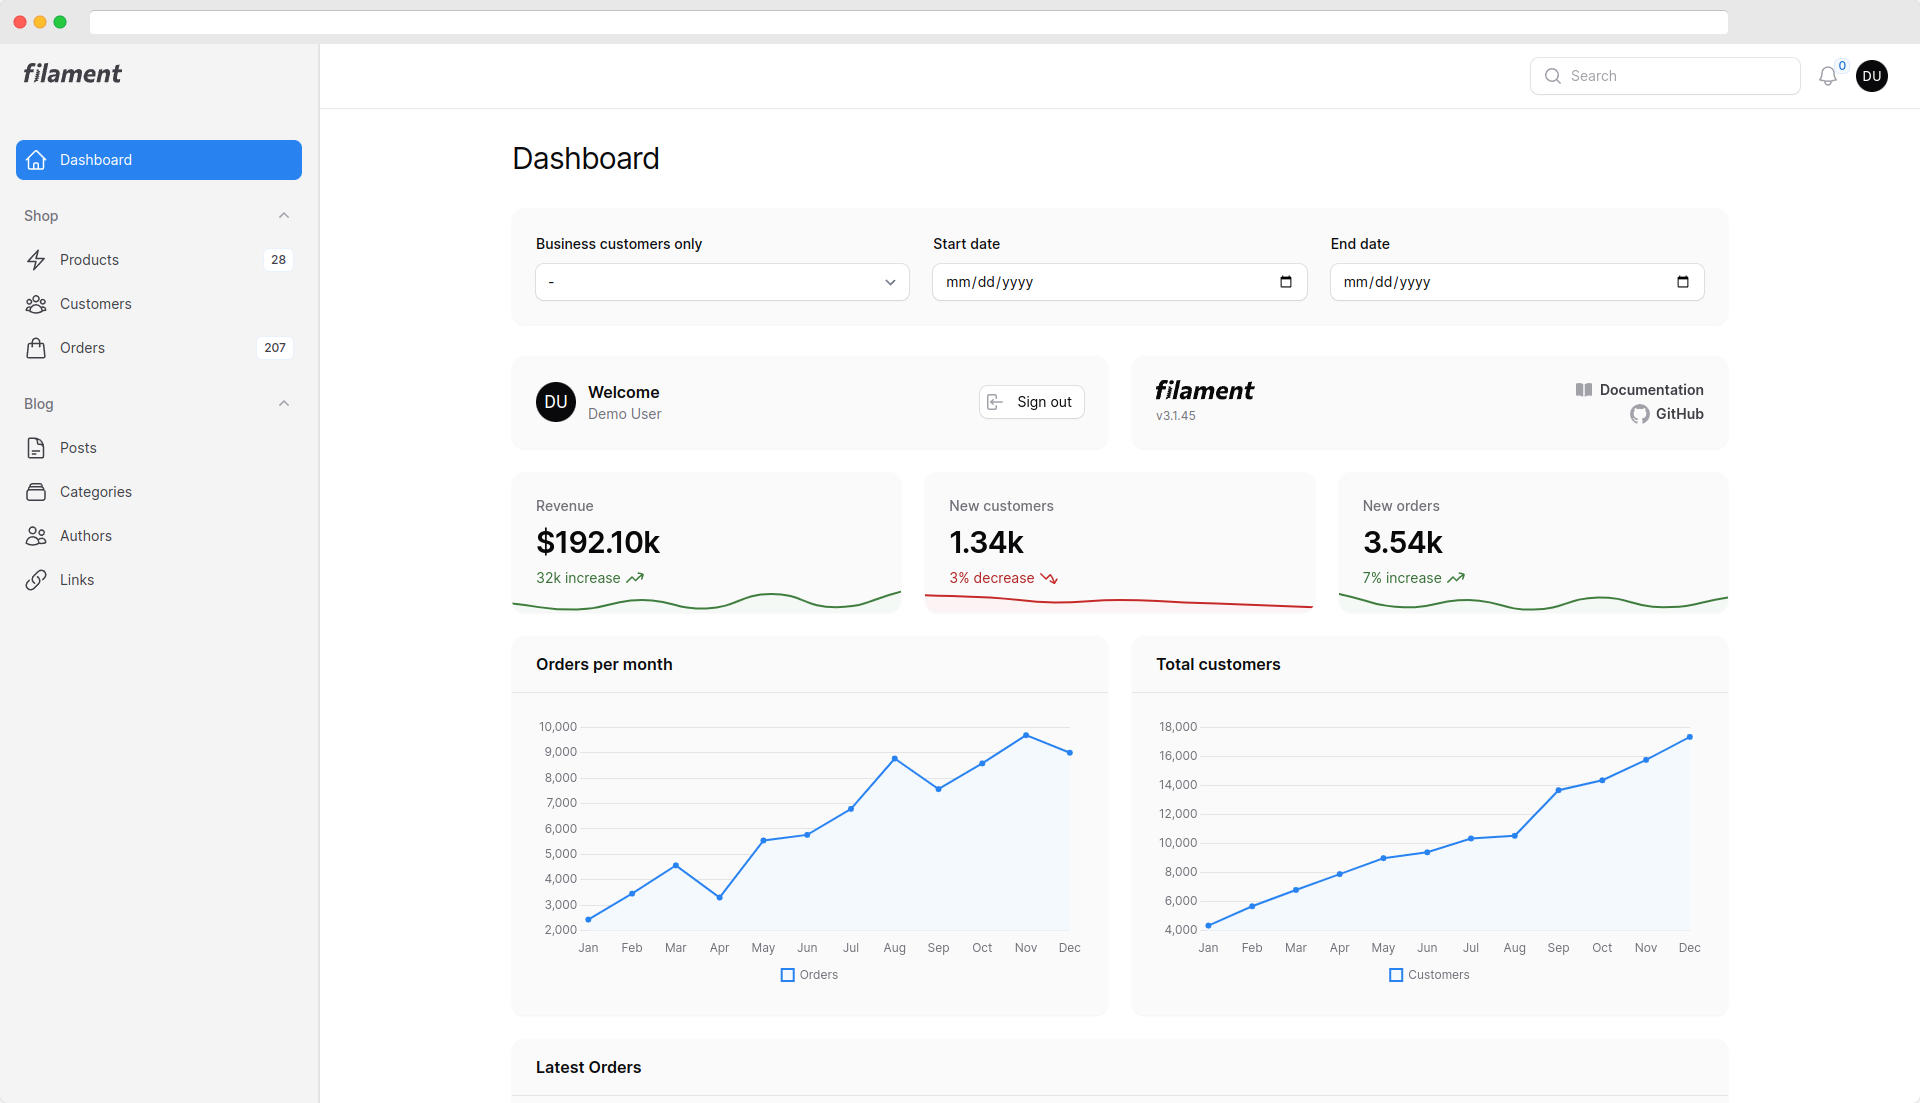
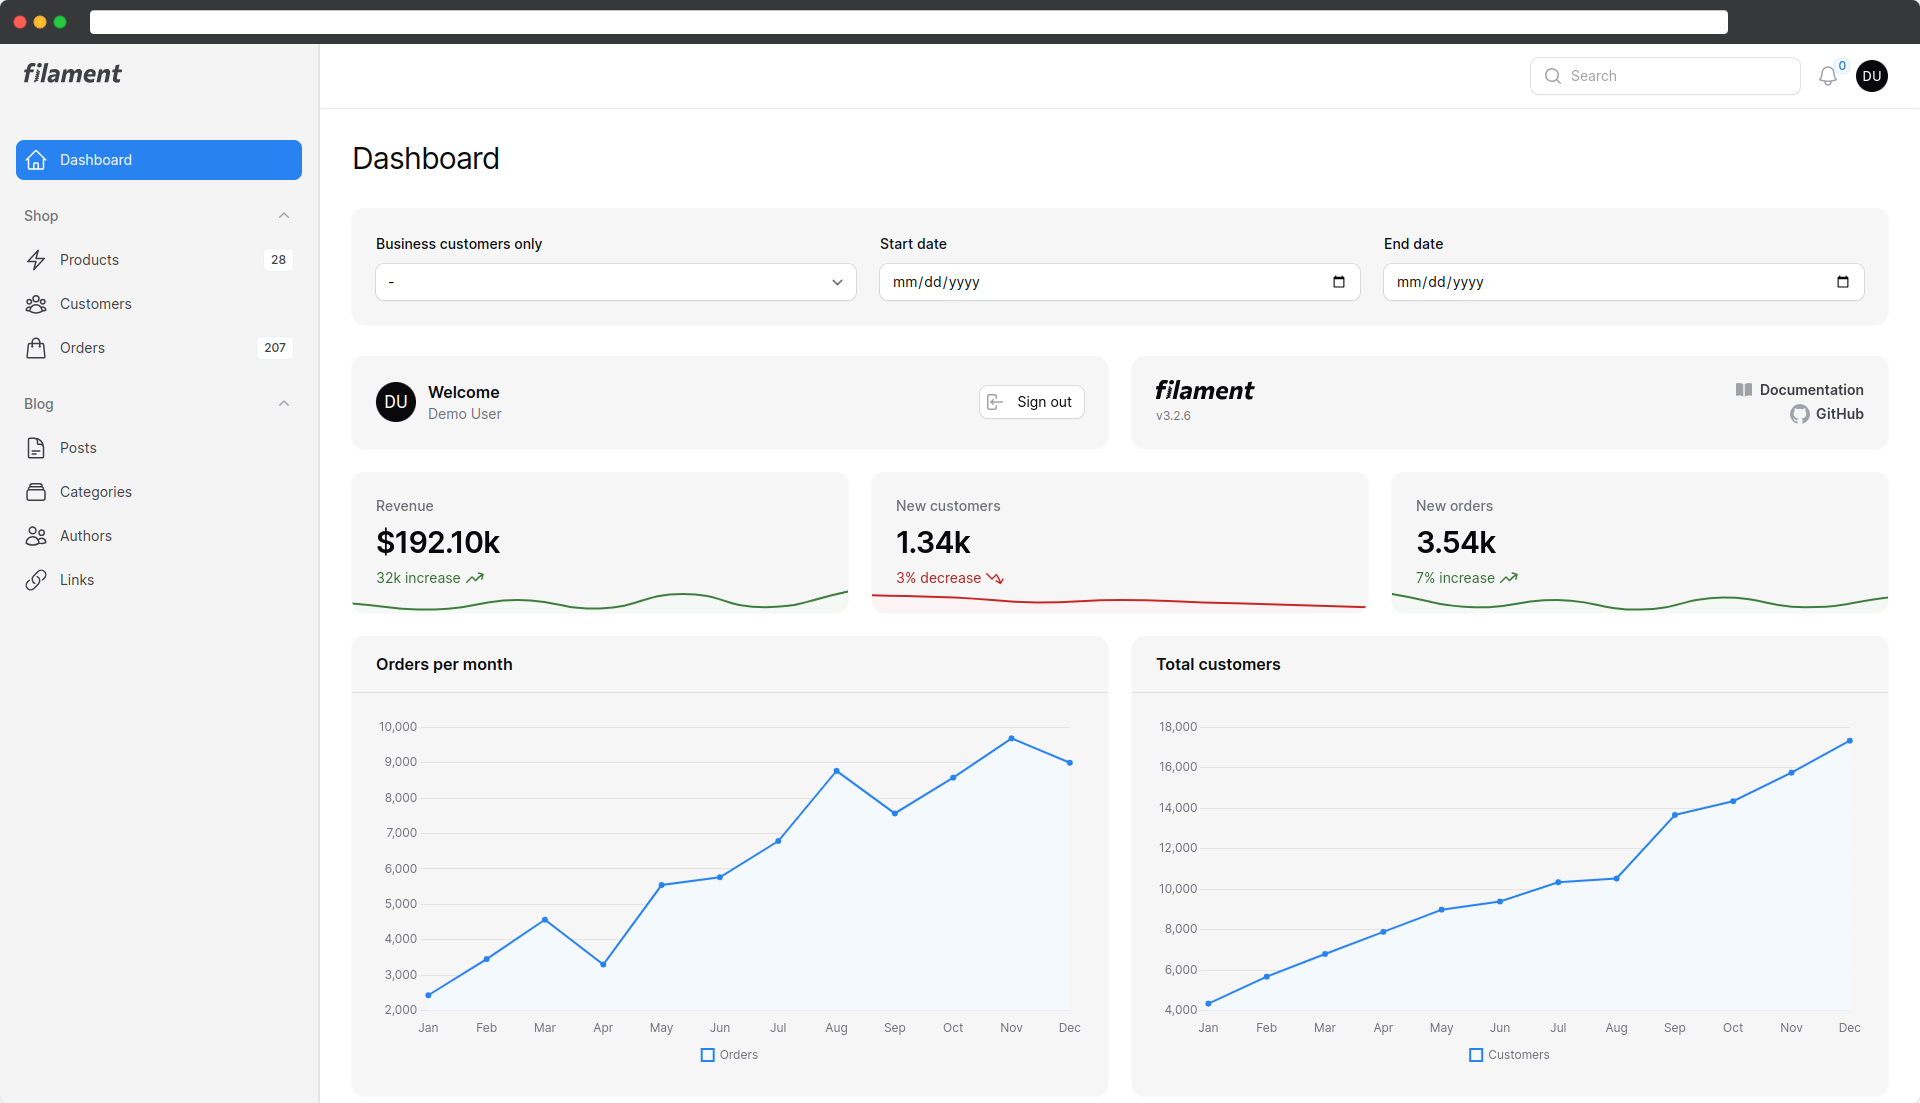
image update

diff --git a/CHANGELOG.md b/CHANGELOG.md
@@ -2,6 +2,16 @@
 
 All notable changes to `filament-plugin-theme-os-light` will be documented in this file.
 
+## 1.0.1 - 2024-01-19
+
+- refactored "withLogoInTopBar"
+- more contrast in complete layout
+- optimized form design
+- optimized fieldset design
+- optimized checkbox colors
+- optimized pagination
+
 ## 1.0.0 - 2024-01-07
 
 - initial release
+
